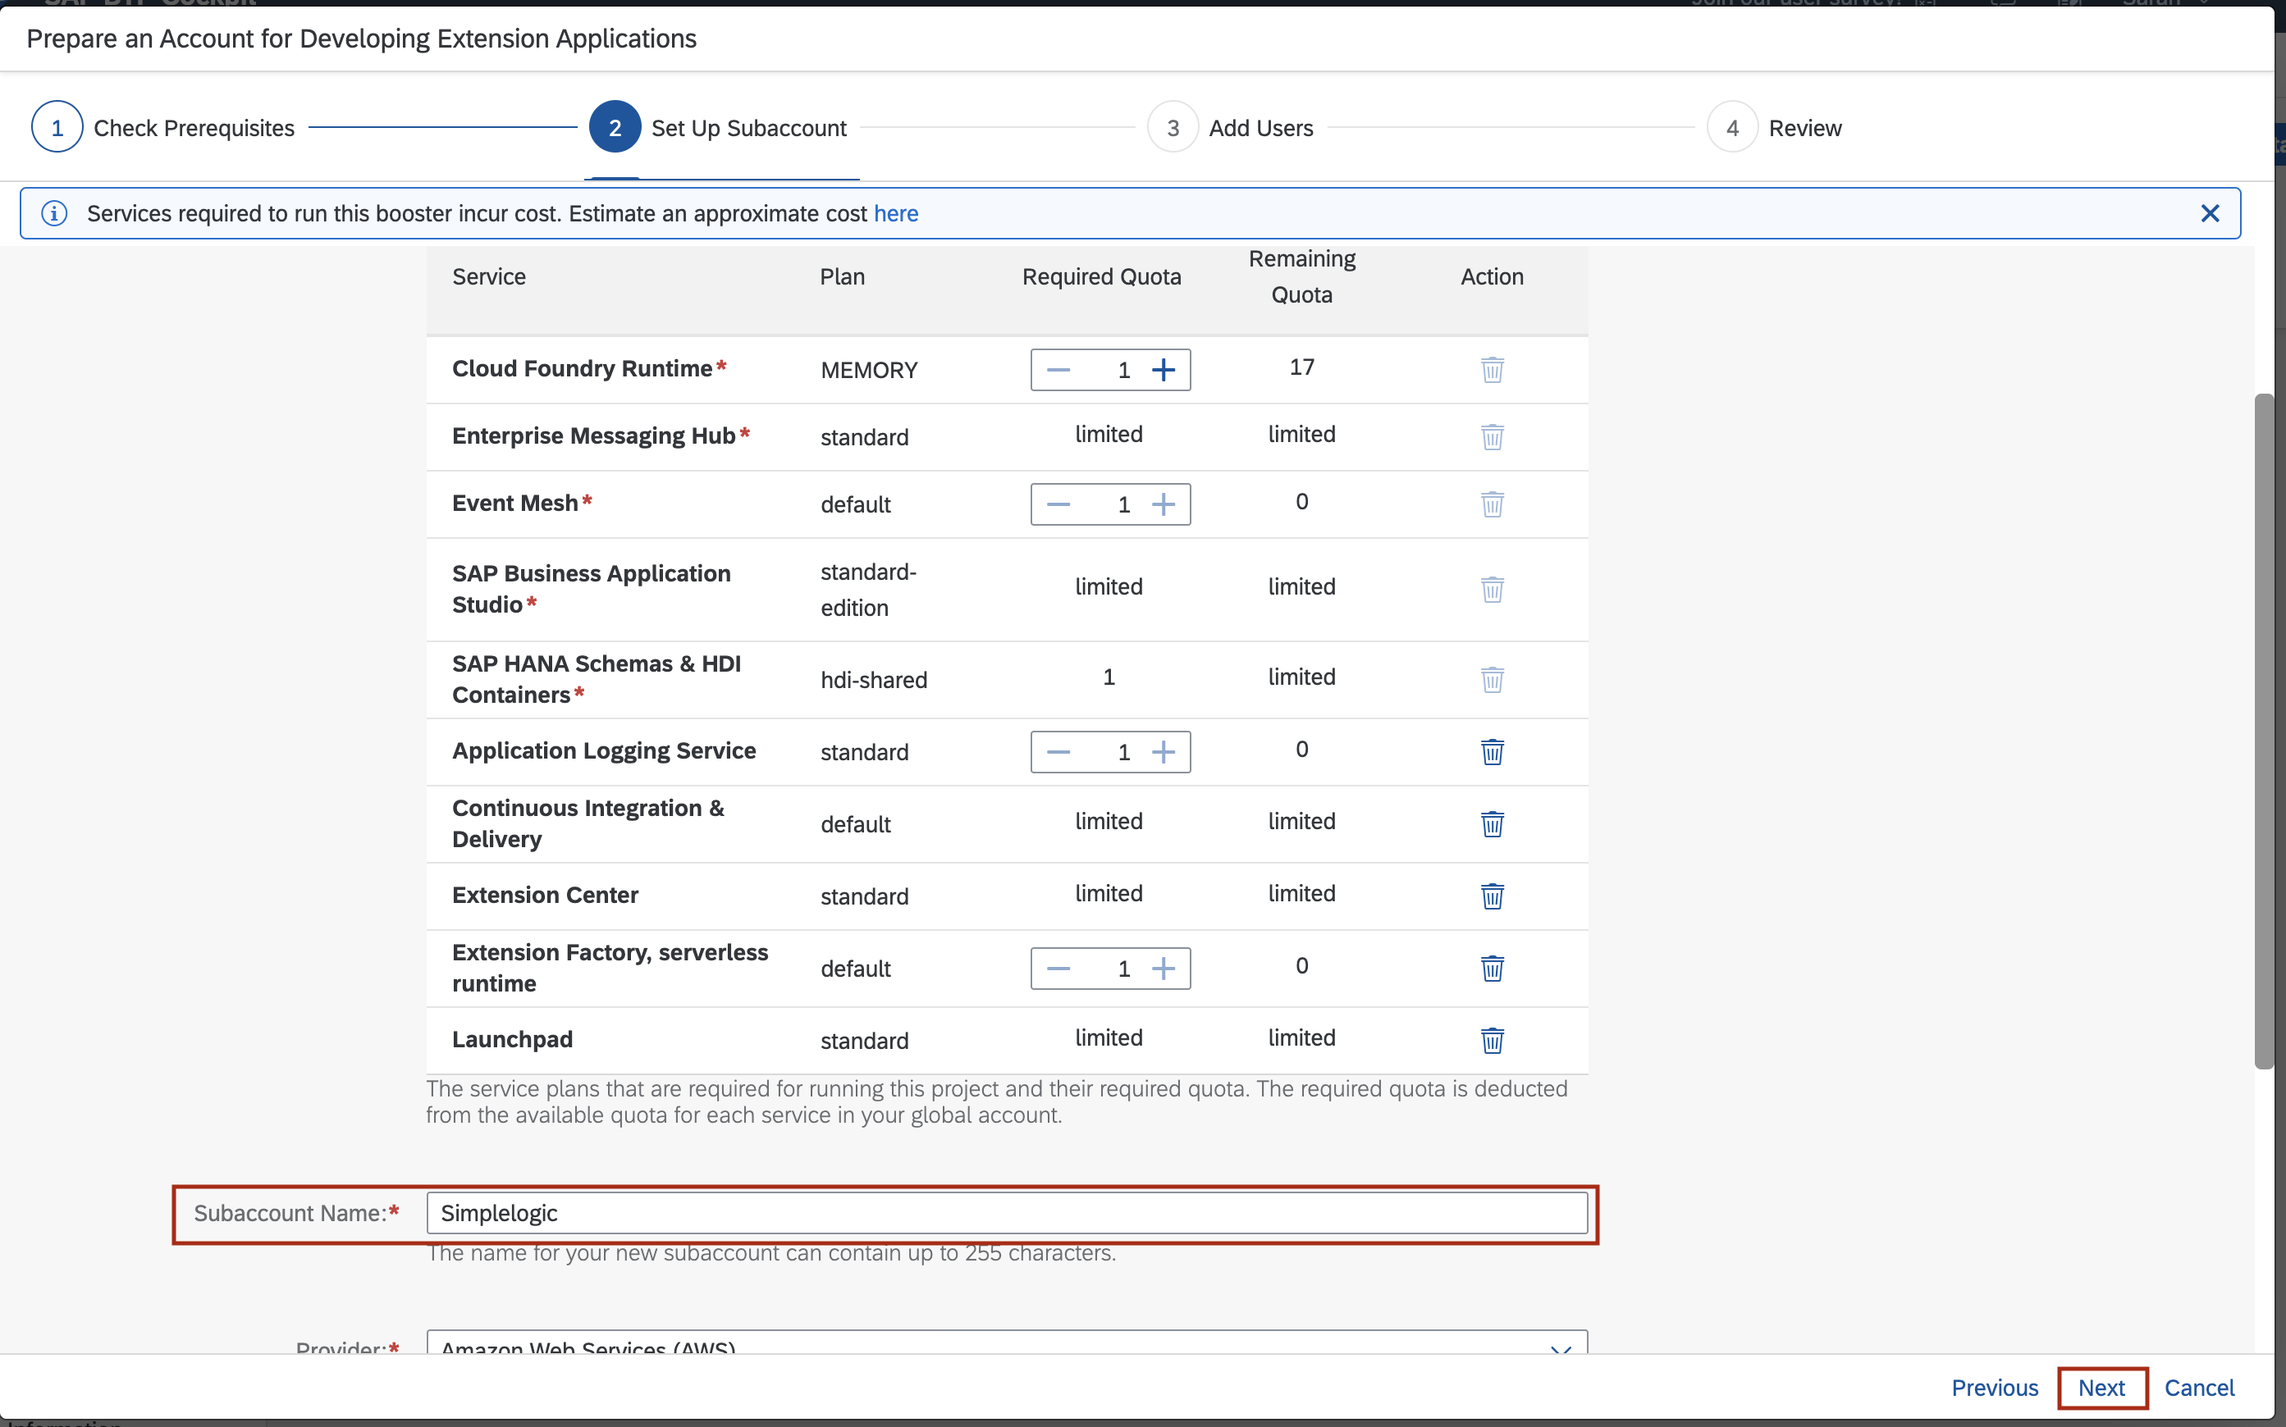
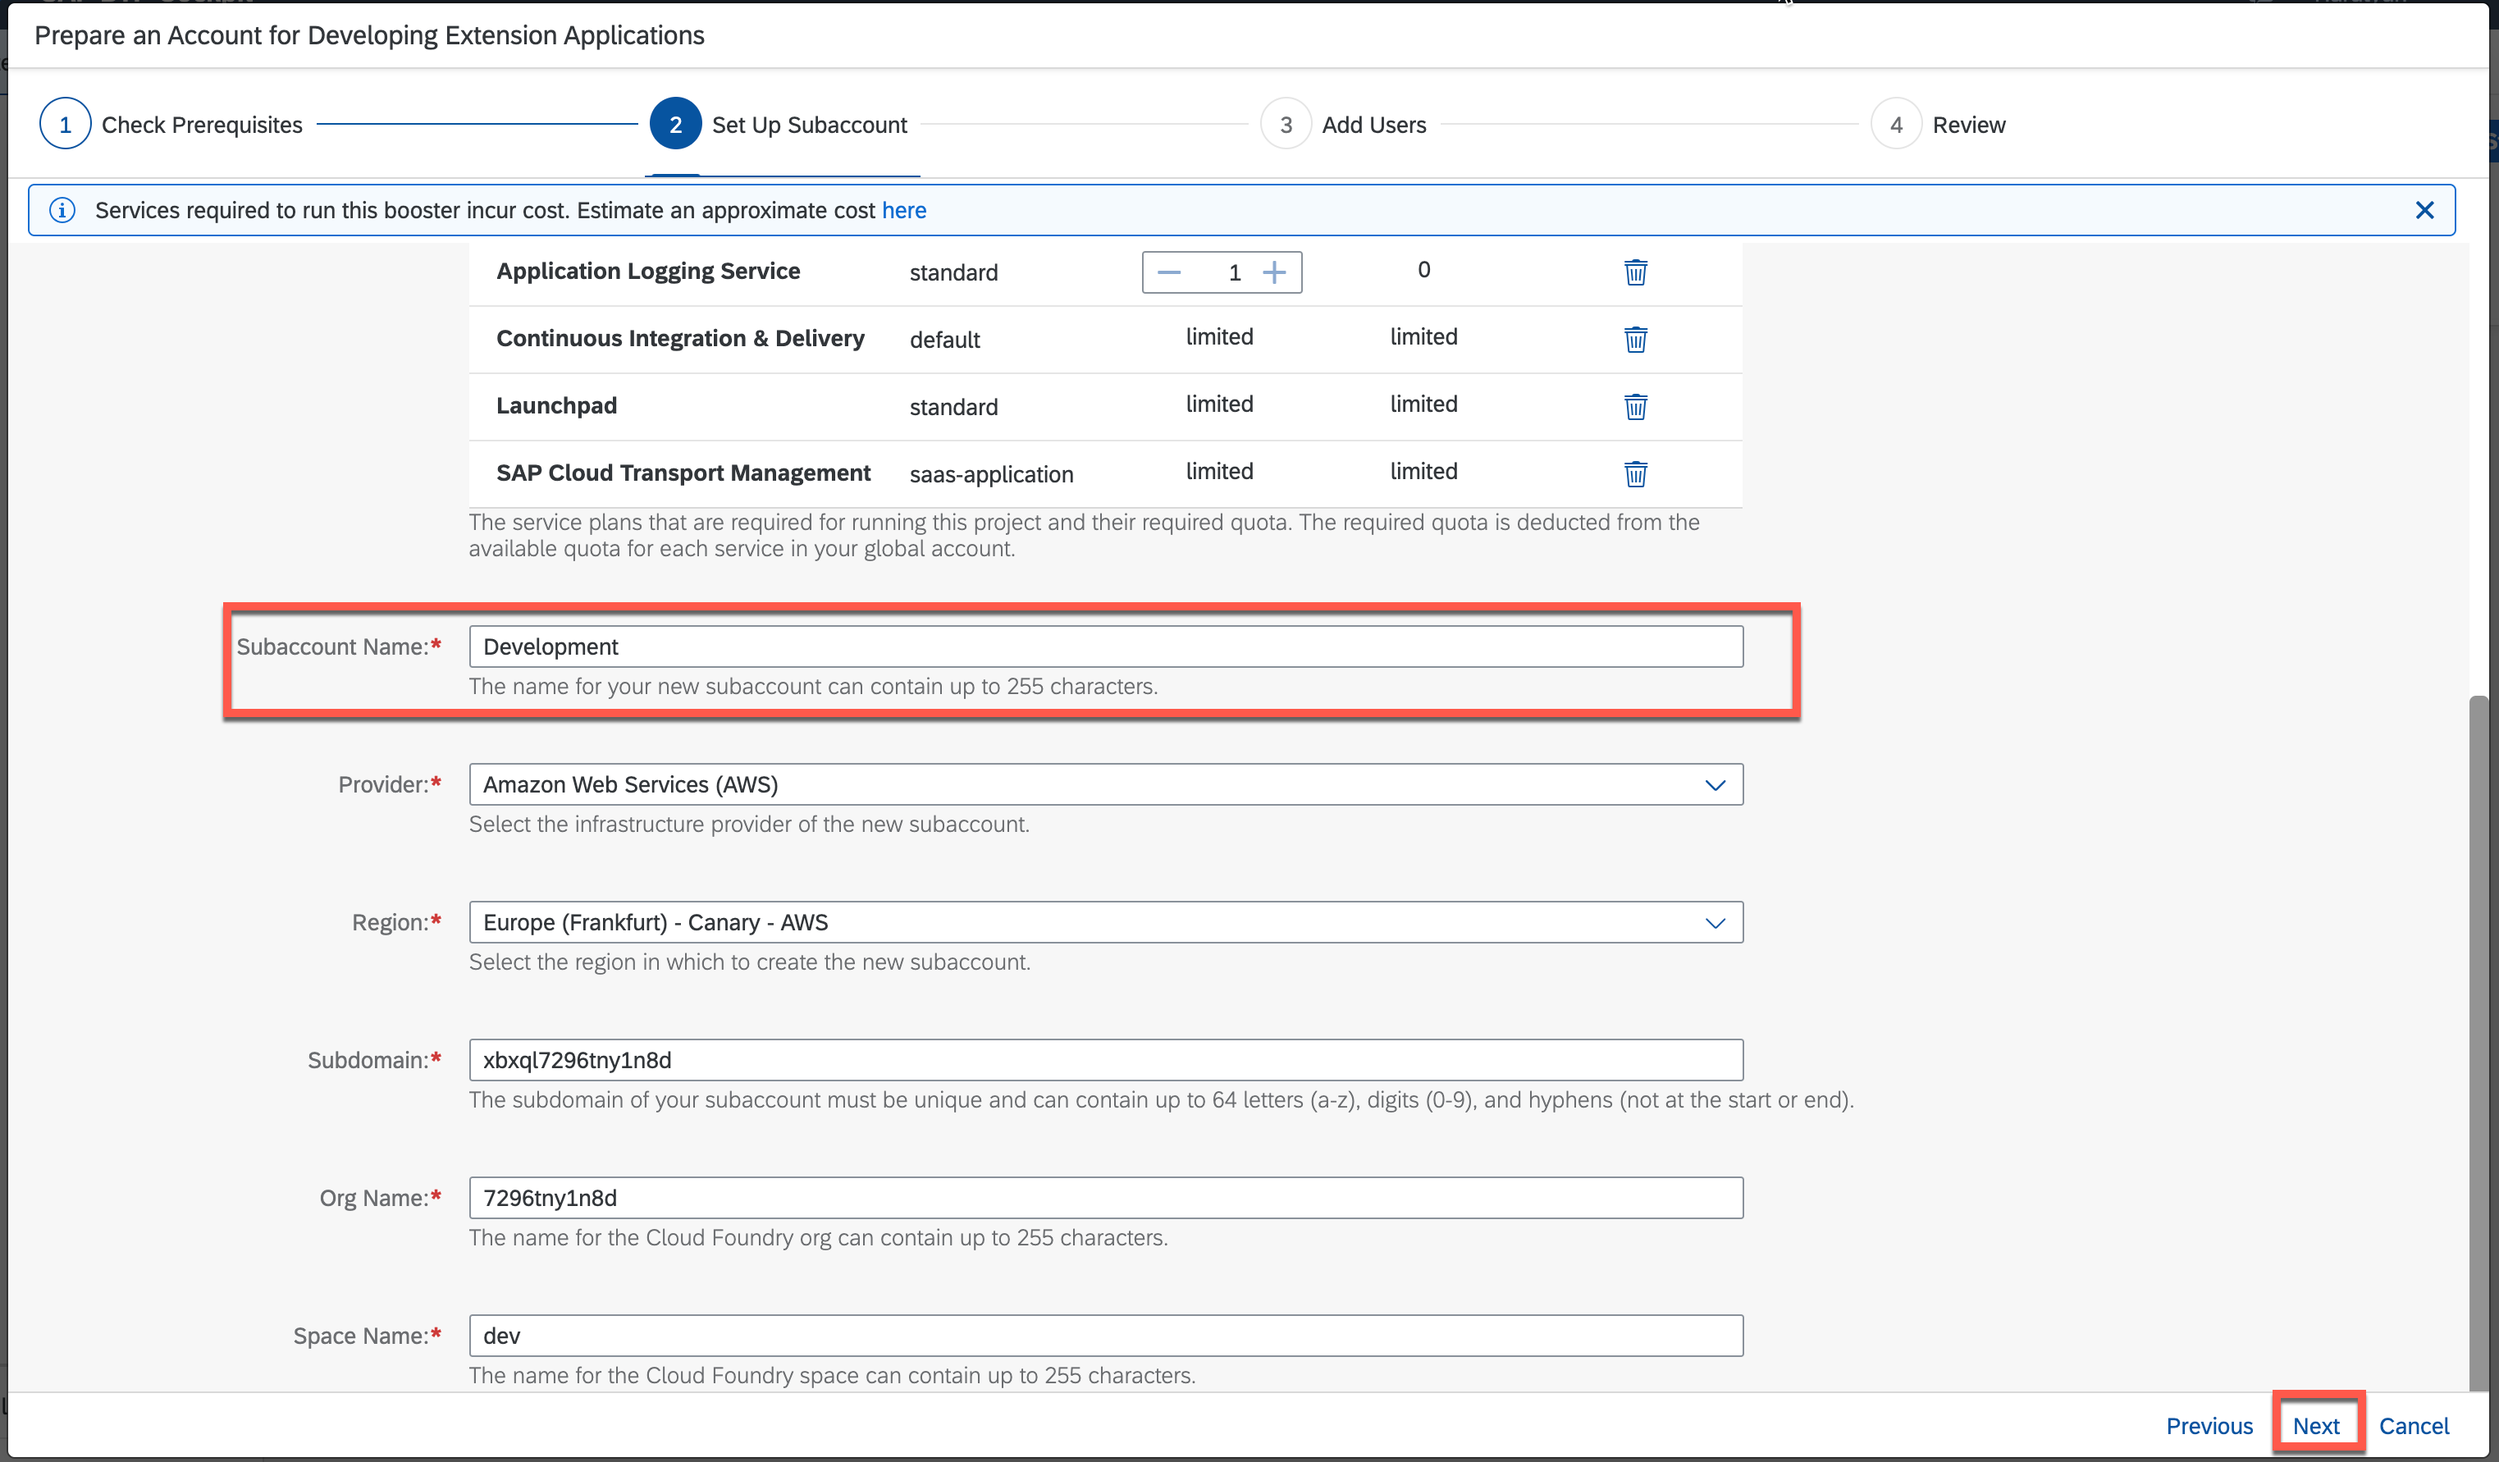
fixes in prepare, cicd, tms steps

diff --git a/13-SetupAppAutoscaler/README.md b/13-SetupAppAutoscaler/README.md
@@ -62,7 +62,6 @@ A better approach is the Application Autoscaler service provided by SAP BTP on C
     This rule states that, for the rule to execute, the application must have one instance running at minimum and the Application Autoscaler can scale the application till it has 5 instances running at maximum. The scaling rules are for CPU and states the following things.
 
     - Whenever threshold value of CPU reaches above 6, scale the application.
-    - Start window seconds of 60 defines that the amount of time required to calculate the average value of the metric CPU is 60 seconds.
     - Breach duration seconds of 60 defines that the amount of time required to analyze the collected data of the metric CPU is 60 seconds.
     - Cool down seconds of 60 defines that the amount of time required between two successive scale triggers is 60 seconds.
     - Adjustment defines what to do when the rule conditions are satisfied. There are two rules in this case. one rule is scaling up the application instances and the other one is scaling down the instances.
@@ -127,6 +126,11 @@ A better approach is the Application Autoscaler service provided by SAP BTP on C
 
 7. Get JWT Token
    
+   - Get the url, clientid, clientsecret from BusinessPartnerVerification-uaa instance
+
+
+   ![Postman access token](images/as10.png)
+
    Use e.g. postman to get Access Token
    
    - *Authorization Type:* OAuth 2.0
@@ -149,13 +153,13 @@ A better approach is the Application Autoscaler service provided by SAP BTP on C
      locust -f 'load_test.py'
     ```
 
-9. Open locust dashboard
+9.  Open locust dashboard
    
    http://0.0.0.0:8089
 
    ![Run locust](images/as03.png)
 
-10. Start new load test
+11. Start new load test
     - Number of total users to simulate: 1000
     - Spawn rate (users spawned/second): 10
     - Host: BusinessPartnerverification-srv URL (e.g. https://tfe-dev-dev-businesspartnerverification-srv.cfapps.eu10.hana.ondemand.com)
@@ -164,7 +168,7 @@ A better approach is the Application Autoscaler service provided by SAP BTP on C
 
     - run the test Approximately 2-3min and stop it
 
-11. After the load test we can check autoscaling results
+12. After the load test we can check autoscaling results
     
     - Open Application Autoscaler Dashboard
     

diff --git a/03-PrepareBTP/README.md b/03-PrepareBTP/README.md
@@ -24,24 +24,28 @@ You will now prepare your SAP Business Technology Platform, configure your entit
    ![Check Booster](./images/booster3.png)
 
    - In case you see **WARNING**, it means _some optional services_ are not entitled in your global account. You can create the account, but without missing services
-   - In case you see **ERROR**, it means _some mandatory services_ are missing and you need to check your global acount entitlments (internaly e.g. in Control Center)
+   - In case you see **ERROR**, it means _some mandatory services_ are missing and you need to check your global account entitlements 
    - In case you see **DONE**, it means _all necessary services_ are entitled and you can continue with next step
    
 
 5. On the next screen you can set up your Subaccount: 
+    - Configure the Entitlements
+    - Remove: XFS Runtime and Extension Center
+    - Add 1 Quota to Application Autoscaler
+   ![Setup Services](./images/booster5.png)
 
- - Enter Subaccount name - eg: "Simplelogic"
- - You can edit the smaller org name, space name (optional)
+    - Enter Subaccount name - eg: "Development"
+    - You can edit the smaller org name, space name (optional)
 6. Click on *Next* to finish
 
-  ![Enter name](./images/booster4.png)
+   ![Enter name](./images/booster4.png)
 
 7. On the next screen you can add your needed Users:
  - Enter Administor's ID (you can enter IDs of people you would like to have the admin role)
  - Enter developer's ID
 8. Click on *Next*
 
- ![Add Users](./images/booster5.png)
+ ![Add Users](./images/booster10.png)
 
 
 9. After you reviewed your account click on *Finish* 
@@ -60,8 +64,14 @@ You will now prepare your SAP Business Technology Platform, configure your entit
 
 14. Search for "HANA" in the pop-up window and select *SAP HANA Cloud*
 
-15. Click on the checkbox below "Available Plans" for HAN
-
-16. Click on *Add 1 Service Plan* and save
-
+15. Click on the checkbox below "Available Plans" for HANA
+    
 ![Add Service Plan](./images/booster9.png)
+
+16. Search for "Alert Notification" in the pop-up window and select Alert Notification
+
+17. Click on the checkbox below "Available Plans" for standard
+
+18. Click on *Add 2 Service Plan* and save
+
+![Add Service Plan](./images/booster11.png)

diff --git a/11-SetupTMS/README.md b/11-SetupTMS/README.md
@@ -24,7 +24,8 @@ Before we can combine both services, we need to setup Cloud Transport Management
 
 > Note, in case you used at the beginning of the mission the **booster** to setup the account, you can skip first 2 Steps, it's done by booster automatically.
 
-1. Enable/Subscribe to SAP Cloud Transport Management
+1. Enable/Subscribe to SAP Cloud Transport Management (Optional - in case you used Booster)
+  
 
    - In the subaccount, choose Services > Service Marketplace.
    - The entitled subscriptions are shown.
@@ -34,7 +35,7 @@ Before we can combine both services, we need to setup Cloud Transport Management
 
    ![Create TMS](images/tms2.png)
 
-2. Assign User Roles and Permissions in Cloud Transport Management
+2. Assign User Roles and Permissions in Cloud Transport Management (Optional - in case you used Booster)
 
     After successful subscription, you need to configure user access to the application. You need different role collections for the different Cloud Transport Management roles, and assign roles to the role collections based on the application templates. Afterwards, you assign the role collections to users or user groups.
 

diff --git a/10-SetupCICD/README.md b/10-SetupCICD/README.md
@@ -4,7 +4,10 @@ This section describes how to configure and run a predefined continuous integrat
 
 The steps below will guide your through settting up your pipeline.
 
-1. Enable SAP Continuous Integration and Delivery 
+1. Enable SAP Continuous Integration and Delivery (Optional - in case you used Booster)
+   
+    >Note, you can skip this step, if you used previously the Booster to initiate the Subaccount
+
    - Go to your subaccount in SAP BTP
    - Navigate to the Service Marketplace
    - Find the Continuous Integration & Delivery Service and subscribe to the Service.
